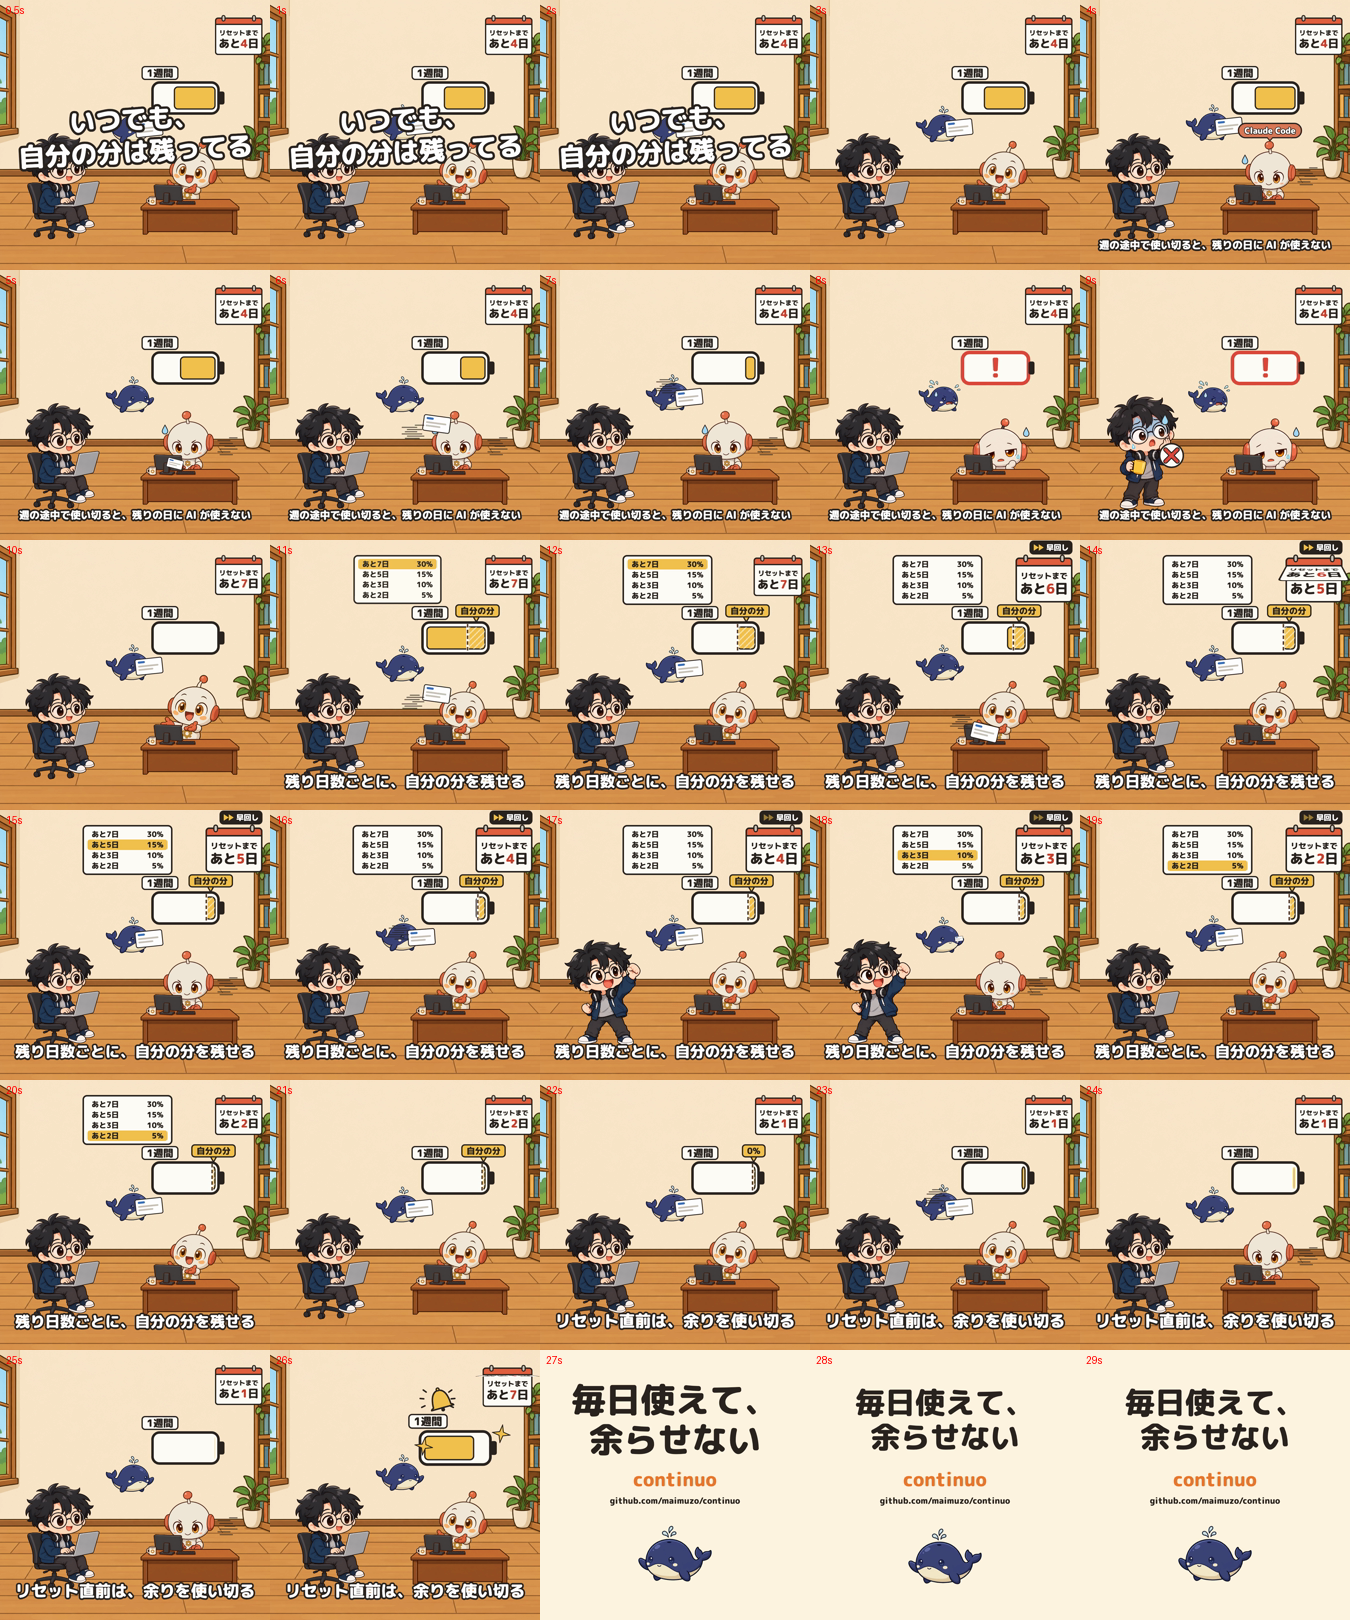
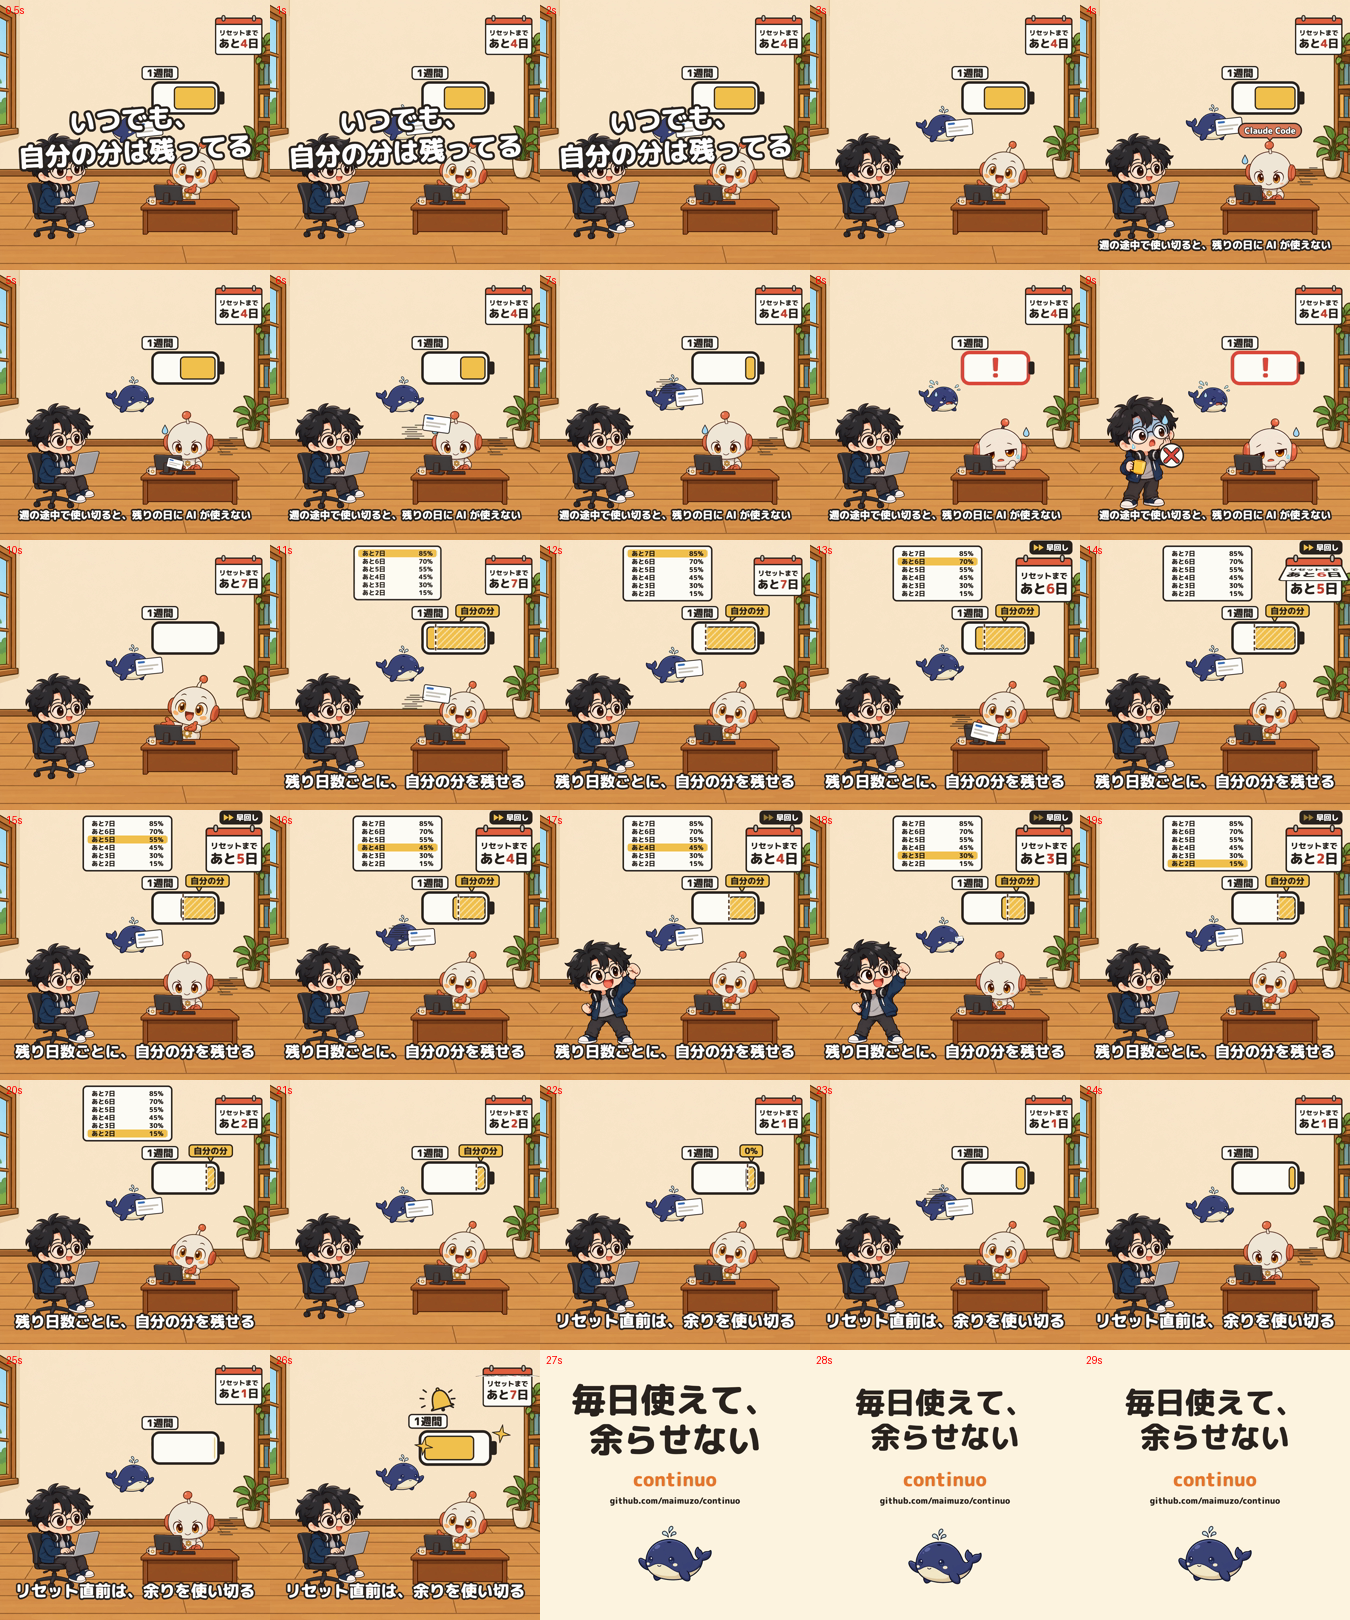
どの日も自分の分が残る回の看板と点線の％を、7等分の値にする
人間の指示（https://github.com/maimuzo/continuo-pr-movie/issues/6#issuecomment-6699563759 ）による。
残り7日で7割を使える値になっていたので、1週間を残り日数で7等分して5%刻みに丸めた値（あと7日 85%・6日 70%・5日 55%・4日 45%・3日 30%・2日 15%・1日 0%）にした。
看板は6行になったので、電池の札に重ならないよう字を小さくして上へ寄せた。看板に無い日が無くなり、めくるたびに必ずその日の行が光る。

Refs #6

diff --git a/short_movie/videos/weekly-margin-by-days/Gauges.tsx b/short_movie/videos/weekly-margin-by-days/Gauges.tsx
@@ -246,7 +246,7 @@ export const MarginTable: React.FC<{ left: number; top: number; width: number; r
         transformOrigin: "50% 0",
         fontFamily: theme.fontFamily,
         fontWeight: 800,
-        fontSize: 30,
+        fontSize: 26, // 7等分の6行を、電池の札より上に収める
         color: theme.color.ink,
       }}
     >
@@ -257,7 +257,7 @@ export const MarginTable: React.FC<{ left: number; top: number; width: number; r
             display: "flex",
             justifyContent: "space-between",
             alignItems: "center",
-            height: 42,
+            height: 32,
             padding: "0 16px",
             borderRadius: 10,
             background: active === d ? FILL : "transparent",

diff --git a/short_movie/storyboards/weekly-margin-by-days.md b/short_movie/storyboards/weekly-margin-by-days.md
@@ -20,7 +20,7 @@
 | 日めくり | 右上（左 860px・上 70px・幅 190px）。寝て待つ回の日めくりの数字の代わりに「リセットまで」「あと N日」を2段で出す。めくるあいだ（12〜20秒）は 1.2 倍にし、日めくりの上（左 878px・上 2px）に「早回し」の印 | 残り日数で点線の位置が変わることを見せる |
 | 開発者 | 左（中心 250px・足もと 960px・高さ 430px）。ノートPC で自分の Claude Code を使う | 開発者が自分で使う分が残っているかを見せる |
 | コンティ | 電池の左（中心 520px・上 420px）に浮かび、カードを Claude Code へ渡す。点線まで来たらカードを抱えたまま待つ | マージンに食い込む前に、continuo が新しい作業を渡さないことを見せる（continuo の FAQ） |
-| 看板 | 10.6〜21秒、電池の左上（左 330px・上 60px・幅 360px）に「自分の分」の表。あと7日 30%・あと5日 15%・あと3日 10%・あと2日 5%。字 30px。あと1日の行は出さない。日めくりがその日を指しているあいだ、その日の行を黄色に光らせる（あと6日・あと4日は行が無いので光らない） | 残り日数ごとに決められることを、表の形で一目で見せる。％は例。0% は次の場面で初めて見せる。看板に無い日（あと6日・あと4日）の点線は、前後の行のあいだ（20%・12%）に置く |
+| 看板 | 10.6〜21秒、電池の左上（左 330px・上 60px・幅 360px）に「自分の分」の表。あと7日 85%・あと6日 70%・あと5日 55%・あと4日 45%・あと3日 30%・あと2日 15%（1週間を残り日数で7等分し、5%刻みに丸めた値）。字 30px。あと1日の行は出さない。日めくりがその日を指しているあいだ、その日の行を黄色に光らせる | 残り日数ごとに決められることを、表の形で一目で見せる。％は例。0% は次の場面で初めて見せる。残り7日で7割を使えるような値にしない（人間の指示） |
 | 名前の札 | 3.1〜4.9秒、Claude Code の頭の上にテラコッタの札。電池の下と頭のあいだに収まり、電池と重ならない | 1節の決まり |
 | 字幕・締め | 場面の頭から4フレーム後に1行。締め「毎日使えて、余らせない」は2行に分けて 120px | チームで入札の回・寝て待つ回と同じ形 |
 | 言葉 | 字幕と画面の字で「マージン」と書かず「自分の分」と書く。レートリミットは言い換えない | 読む人の言葉にする（`lessons.md`） |
@@ -35,7 +35,7 @@
 | --- | --- | --- |
 | 0〜3 | タイトル | 部屋の上に「いつでも、」「自分の分は残ってる」の2行。2.7秒から縮んで消える |
 | 3〜10 | 週の途中で使い切る | 点線の無い電池（残り 70%）。日めくり「あと4日」。3.1秒に名前の札。3.4・4.6・5.8・7.0秒にコンティがカードを Claude Code へ渡し（カードが飛ぶ）、Claude Code が激しく作る（スピード線と汗）。電池が 3.4〜7.5秒でゆっくり空になり、7.5秒から赤く点滅して中に「！」。Claude Code は座り込み（`cc_wait`）、コンティは慌てる（`fluster`）。8.2秒に開発者（ノートPC）が自分の作業を始めようとすると、ノートPC に赤い「×」。9.0秒に開発者が青ざめる（`dev_pale`）。字幕「週の途中で使い切ると、残りの日に AI が使えない」 |
-| 10〜21 | 残り日数ごとに自分の分 | 10.0秒に電池が満タンへ戻る（この場面は別の週）。10.35秒に点線と「自分の分」の札が 30% の位置に出る（ぽん）。10.6秒に看板が出て「あと7日」の行が光る。10.8秒にカードを渡し、11.1〜11.8秒に Claude Code が作って残りが点線まで減る。12.2・13.8・15.4・17.0・18.6秒（1日あたり 1.6秒）に日めくりが1枚ずつめくれ（あと6日 → 5 → 4 → 3 → 2）、めくるたびに看板のその日の行が光り、めくり終わりの 0.35秒後から点線がその日の％の位置へ右へ寄る。めくりの 0.5秒後にカードを渡し、0.85〜1.3秒後に Claude Code が作って残りが点線まで減る。点線に届いたら Claude Code は手を止め、コンティは次のカードを抱えたまま待つ。開発者はノートPC で作業し（`dev_laptop`）、16.4〜18.4秒に喜ぶ（`dev_cheer`）。字幕「残り日数ごとに、自分の分を残せる」 |
+| 10〜21 | 残り日数ごとに自分の分 | 10.0秒に電池が満タンへ戻る（この場面は別の週）。10.35秒に点線と「自分の分」の札が 85% の位置に出る（ぽん）。10.6秒に看板が出て「あと7日」の行が光る。10.8秒にカードを渡し、11.1〜11.8秒に Claude Code が作って残りが点線まで減る。12.2・13.8・15.4・17.0・18.6秒（1日あたり 1.6秒）に日めくりが1枚ずつめくれ（あと6日 → 5 → 4 → 3 → 2）、めくるたびに看板のその日の行が光り、めくり終わりの 0.35秒後から点線がその日の％の位置へ右へ寄る。めくりの 0.5秒後にカードを渡し、0.85〜1.3秒後に Claude Code が作って残りが点線まで減る。点線に届いたら Claude Code は手を止め、コンティは次のカードを抱えたまま待つ。開発者はノートPC で作業し（`dev_laptop`）、16.4〜18.4秒に喜ぶ（`dev_cheer`）。字幕「残り日数ごとに、自分の分を残せる」 |
 | 21〜27 | 最後の日は使い切る | 21.0秒に日めくり「あと1日」。看板は消える。21.8〜22.4秒に点線が電池の右の端までゆっくり寄り、札が「0%」になって、22.4〜22.8秒に消える。23.0秒にコンティがカードを渡し、Claude Code が作って残りが 23.4〜25.2秒で空になる（赤くならない）。25.7秒にベルが鳴り、25.75秒から電池が満タンへ戻る（困った場面の空の電池と取り違えないよう、満タンへ戻るところを必ず見せる）。日めくりが「あと7日」へ戻る。26.3秒に Claude Code がこぶしを上げる（`fist`）。字幕「リセット直前は、余りを使い切る」 |
 | 27〜30 | 締め | 「毎日使えて、」「余らせない」・「continuo」・URL・ヒレを振るコンティ |
 
